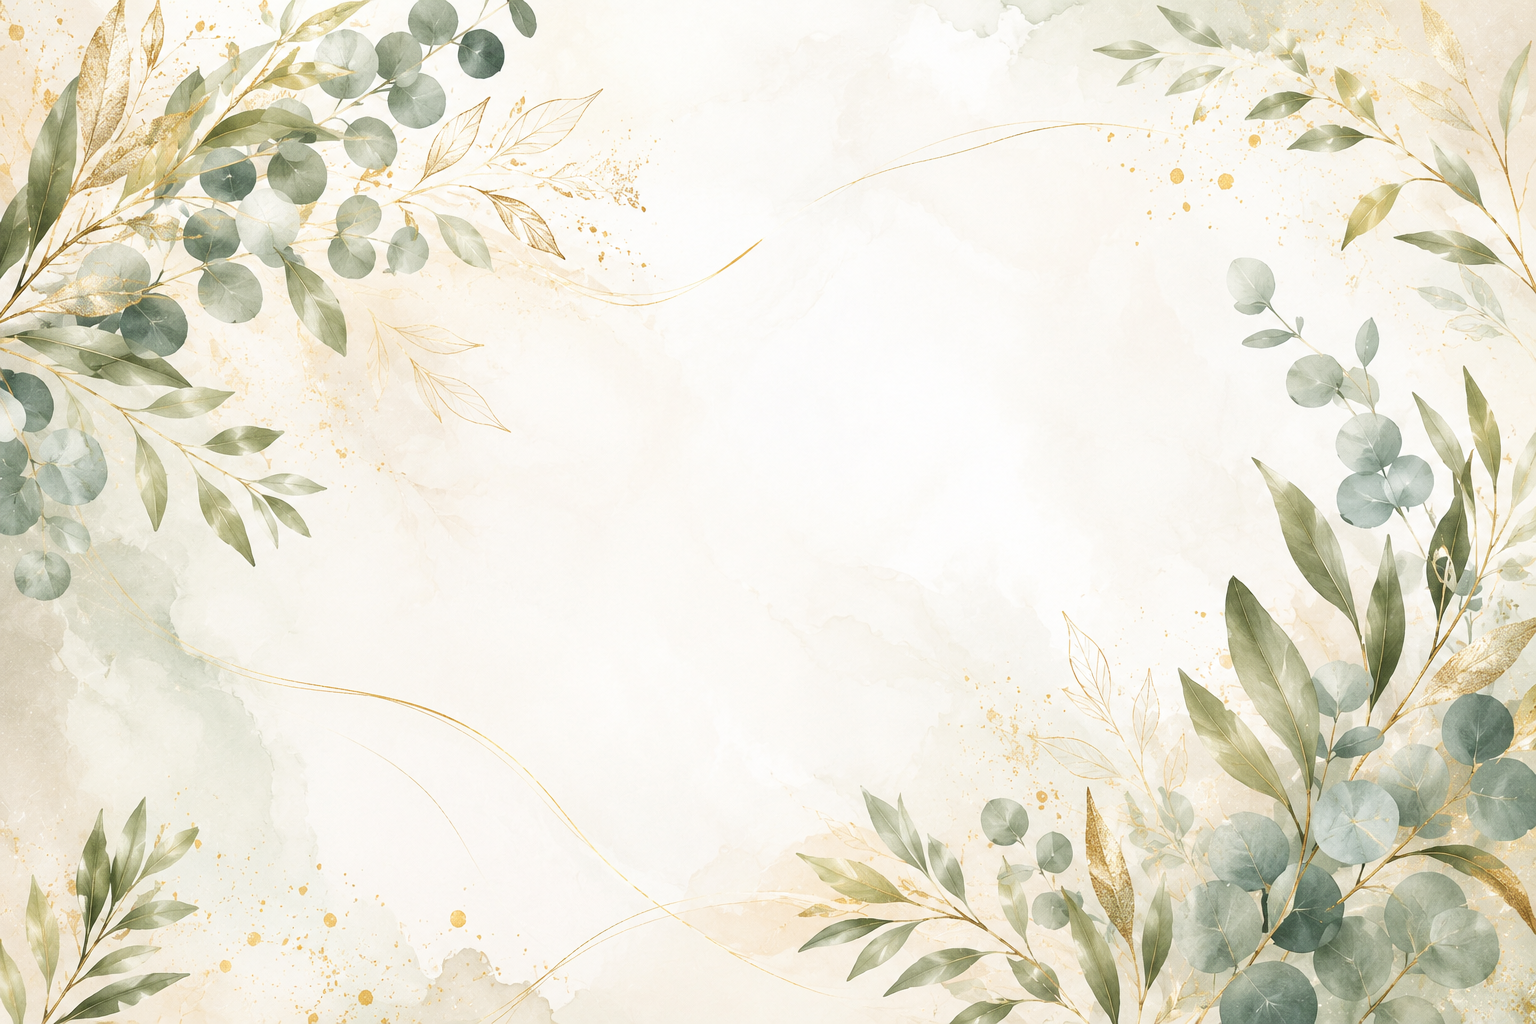
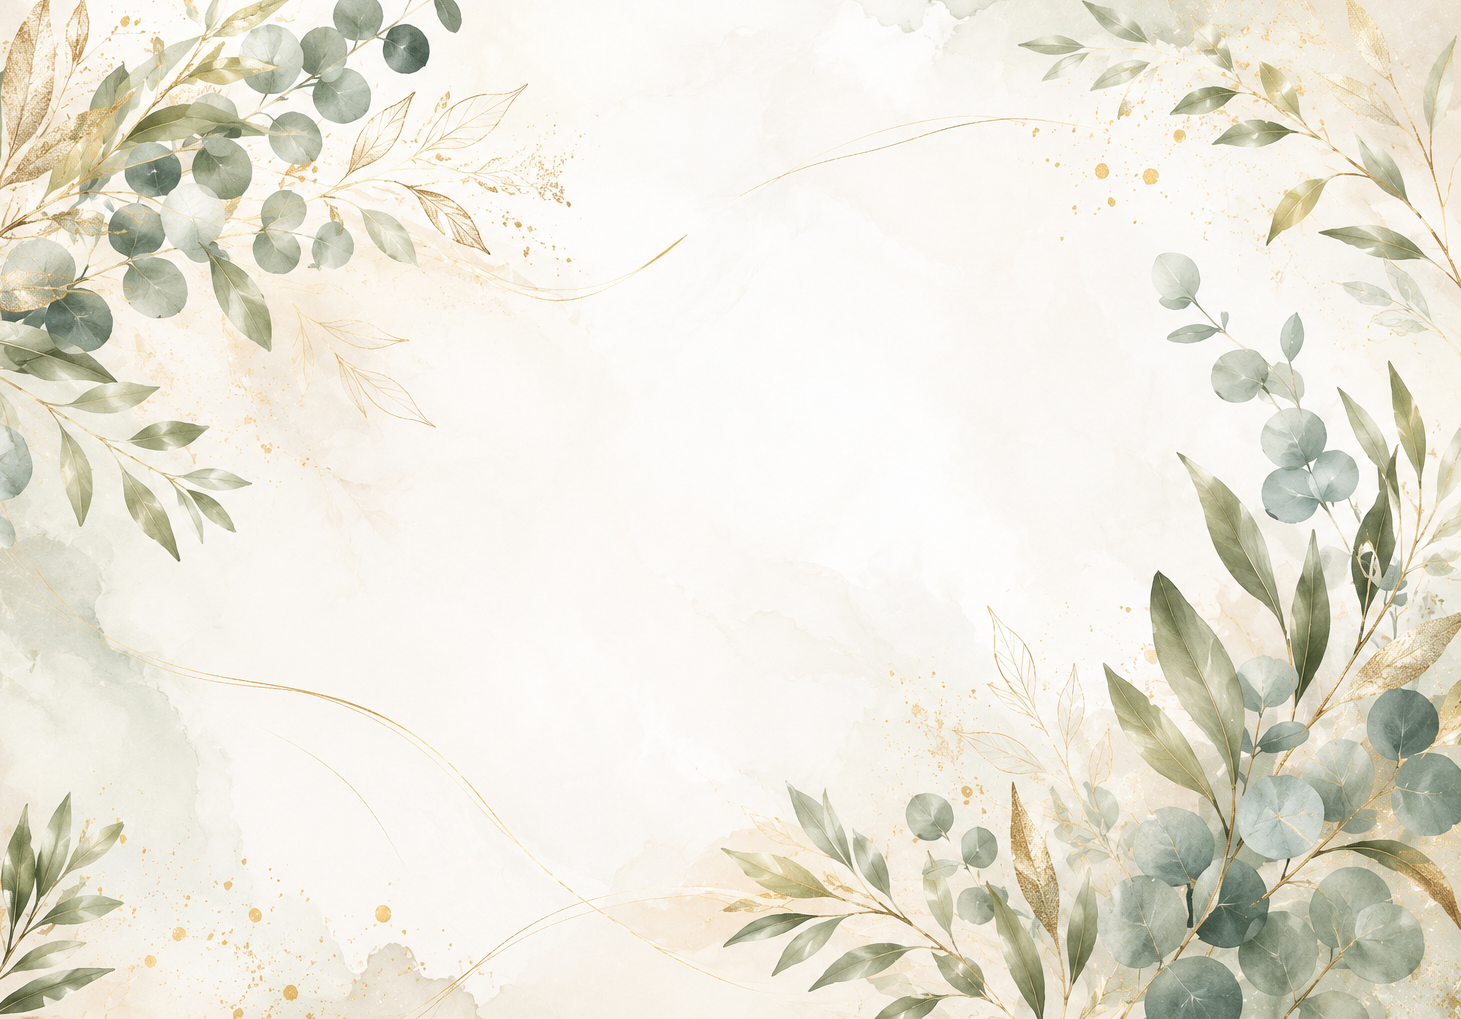
hintergrund

diff --git a/app/globals.css b/app/globals.css
@@ -23,24 +23,28 @@ body {
 body::before {
   content: "";
   position: fixed;
-  top: -80px;
-  left: 0;
-  right: 0;
-  bottom: -80px;
+  inset: 0;
   z-index: -1;
   pointer-events: none;
 
-  background: url("/background.png");
-  background-size: cover;
-  background-position: center;
+  width: 100vw;
+  height: 100svh;
+
+  background-image: url("/background.png");
+  background-size: auto 100svh;
+  background-position: center top;
   background-repeat: no-repeat;
+
+  transform: translateZ(0);
 }
 
 @media (max-width: 768px) {
   body::before {
+    height: 100svh;
+    background-size: auto 100svh;
     background-position: left top;
-
-  }}
+  }
+}
 * {
   box-sizing: border-box;
 }

diff --git a/app/gallery/[id]/page.tsx b/app/gallery/[id]/page.tsx
@@ -315,14 +315,14 @@ useEffect(() => {
           </Link>
         )}
 
-<div className="w-full max-w-md bg-white/50 backdrop-blur rounded-[2rem] p-8 shadow-2xl border border-white/50 text-center">
+<div className="w-full max-w-md md:mx-auto bg-white/50 backdrop-blur rounded-[2rem] p-8 shadow-2xl border border-white/50 text-center">
   <div className="mb-6 flex justify-center items-center">
     <div className="w-20 h-px bg-[#c8ad72]"></div>
     <span className="mx-4 text-[#c8ad72] text-xl">♥</span>
     <div className="w-20 h-px bg-[#c8ad72]"></div>
   </div>
 
-  <h1 className="font-elegant text-5xl font-medium text-[#3b3128] leading-tight tracking-wide">
+  <h1 className="font-elegant text-4xl font-medium text-[#3b3128] leading-tight tracking-wide">
     {eventTitle}
   </h1>
 